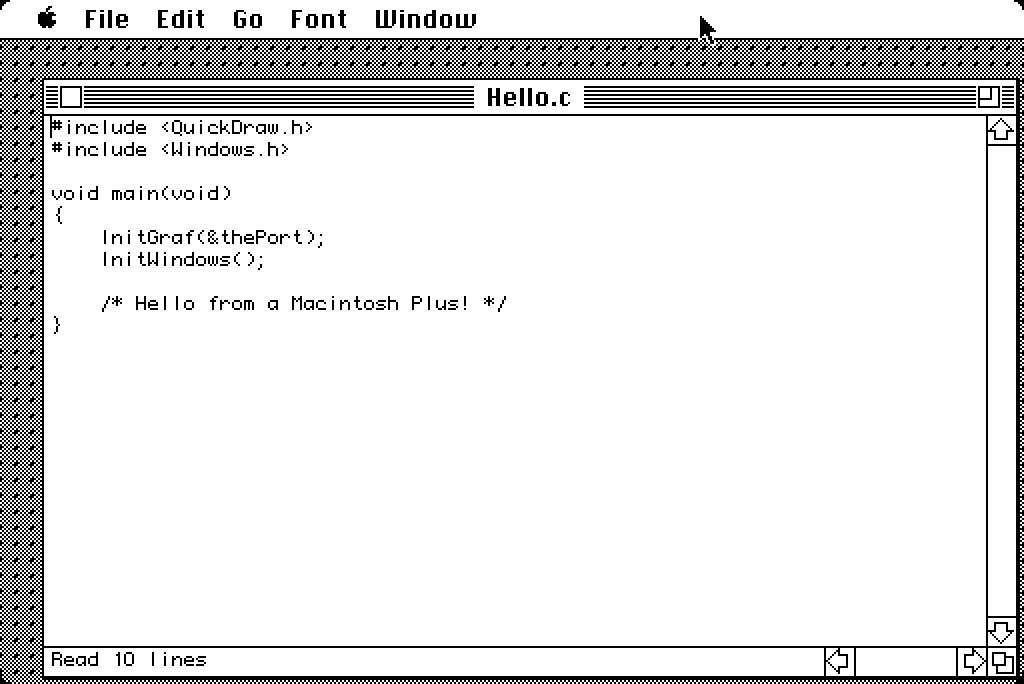
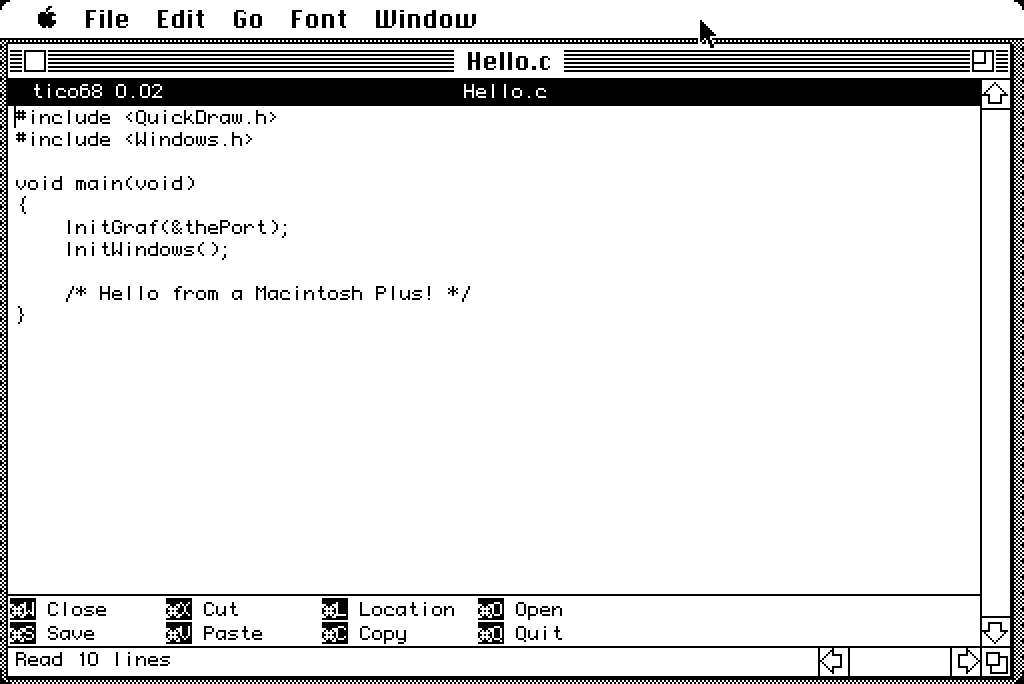
Update the tico68 page for 0.02
The title and shortcut bars are on by default now, so the screenshot and
the text say so. The page also lists tico68.sit beside the disk image.

diff --git a/docs/tico68.html b/docs/tico68.html
@@ -111,11 +111,10 @@ the work of the Home, End and Page keys a Plus doesn't have.</p>
 
 <h3>Made for a small screen</h3>
 
-<p>tico's title bar and shortcut bar are optional. By default they appear
-only when a window has room for them, so on a Plus every row goes to your
-text, and on a large monitor tico68 looks like tico. The Preferences
-dialog can show or hide each bar for good, and the Font menu lists your
-fixed-width fonts. The default is Monaco 9.</p>
+<p>tico's title bar and shortcut bar are on by default, so tico68 looks like
+tico. On a Plus you may want those rows for your text: the Preferences
+dialog can hide either bar, and the Font menu lists your fixed-width
+fonts. The default is Monaco 9.</p>
 
 <h3>Your files, left alone</h3>
 
@@ -147,15 +146,24 @@ file has the details.</p>
 
 <h3>Getting it</h3>
 
-<p>tico68 is new, and the current version is 0.01. It has been tested under
+<p>tico68 is new, and the current version is 0.02. It has been tested under
 Mini vMac on System 6 and 7.0.1, and has had a first, good run on a real
 Macintosh Plus. It hasn't been tried on any other real Mac yet.</p>
 
-<p>Download <code>tico68-800k.dsk</code> from the
-<a href="https://github.com/tico-edit/tico68/releases">releases page</a>. It's a
-plain 800K HFS disk image for a Floppy Emu or an emulator, and it holds
-the application of about 55 KB and the README. The source, built on Linux
-with <a href="https://github.com/autc04/Retro68">Retro68</a>, is at
+<p>There are two downloads on the
+<a href="https://github.com/tico-edit/tico68/releases">releases page</a>:</p>
+
+<ul>
+<li><code>tico68-800k.dsk</code> is a plain 800K HFS disk image for a Floppy Emu or an
+emulator. It holds the application of about 55 KB and a Read Me.</li>
+<li><code>tico68.sit</code> is a StuffIt archive of the same two files, for a Mac that
+can reach an FTP server. Download it in binary mode, with Fetch for
+instance, and expand it with StuffIt Expander. Version 4.0.1 is tested,
+on System 6 and 7.0.1.</li>
+</ul>
+
+<p>The source, built on Linux with
+<a href="https://github.com/autc04/Retro68">Retro68</a>, is at
 <a href="https://github.com/tico-edit/tico68">github.com/tico-edit/tico68</a>.</p>
 
 

diff --git a/docs/tico68.md b/docs/tico68.md
@@ -37,11 +37,10 @@ the work of the Home, End and Page keys a Plus doesn't have.
 
 ### Made for a small screen
 
-tico's title bar and shortcut bar are optional. By default they appear
-only when a window has room for them, so on a Plus every row goes to your
-text, and on a large monitor tico68 looks like tico. The Preferences
-dialog can show or hide each bar for good, and the Font menu lists your
-fixed-width fonts. The default is Monaco 9.
+tico's title bar and shortcut bar are on by default, so tico68 looks like
+tico. On a Plus you may want those rows for your text: the Preferences
+dialog can hide either bar, and the Font menu lists your fixed-width
+fonts. The default is Monaco 9.
 
 ### Your files, left alone
 
@@ -73,13 +72,20 @@ file has the details.
 
 ### Getting it
 
-tico68 is new, and the current version is 0.01. It has been tested under
+tico68 is new, and the current version is 0.02. It has been tested under
 Mini vMac on System 6 and 7.0.1, and has had a first, good run on a real
 Macintosh Plus. It hasn't been tried on any other real Mac yet.
 
-Download `tico68-800k.dsk` from the
-[releases page](https://github.com/tico-edit/tico68/releases). It's a
-plain 800K HFS disk image for a Floppy Emu or an emulator, and it holds
-the application of about 55 KB and the README. The source, built on Linux
-with [Retro68](https://github.com/autc04/Retro68), is at
+There are two downloads on the
+[releases page](https://github.com/tico-edit/tico68/releases):
+
+* `tico68-800k.dsk` is a plain 800K HFS disk image for a Floppy Emu or an
+  emulator. It holds the application of about 55 KB and a Read Me.
+* `tico68.sit` is a StuffIt archive of the same two files, for a Mac that
+  can reach an FTP server. Download it in binary mode, with Fetch for
+  instance, and expand it with StuffIt Expander. Version 4.0.1 is tested,
+  on System 6 and 7.0.1.
+
+The source, built on Linux with
+[Retro68](https://github.com/autc04/Retro68), is at
 [github.com/tico-edit/tico68](https://github.com/tico-edit/tico68).
